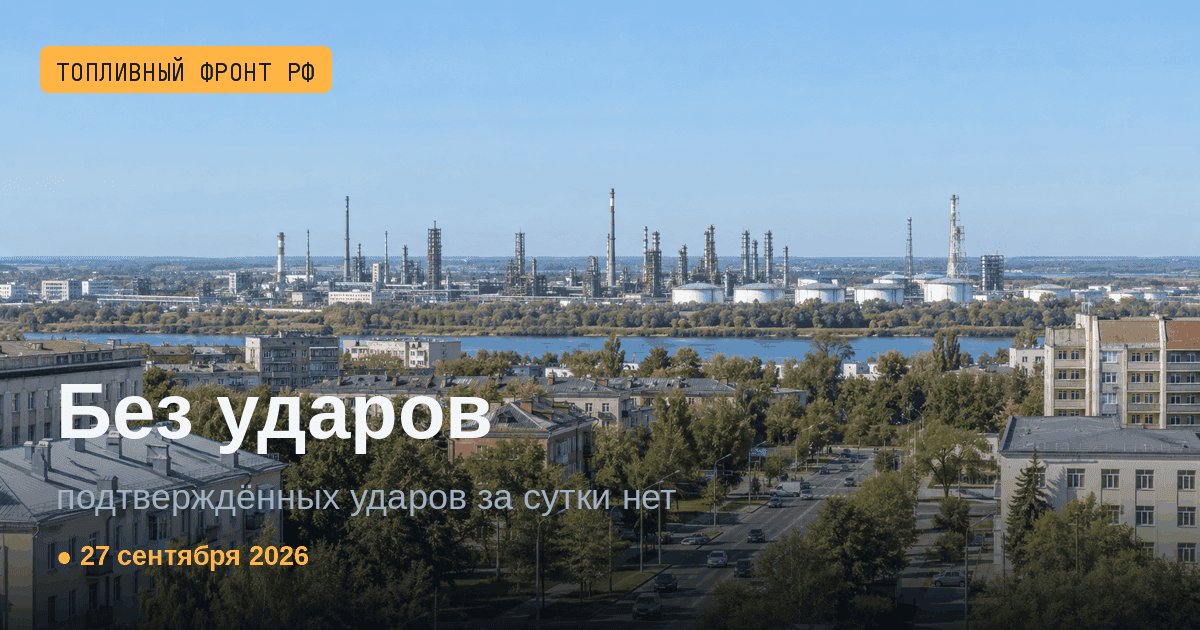
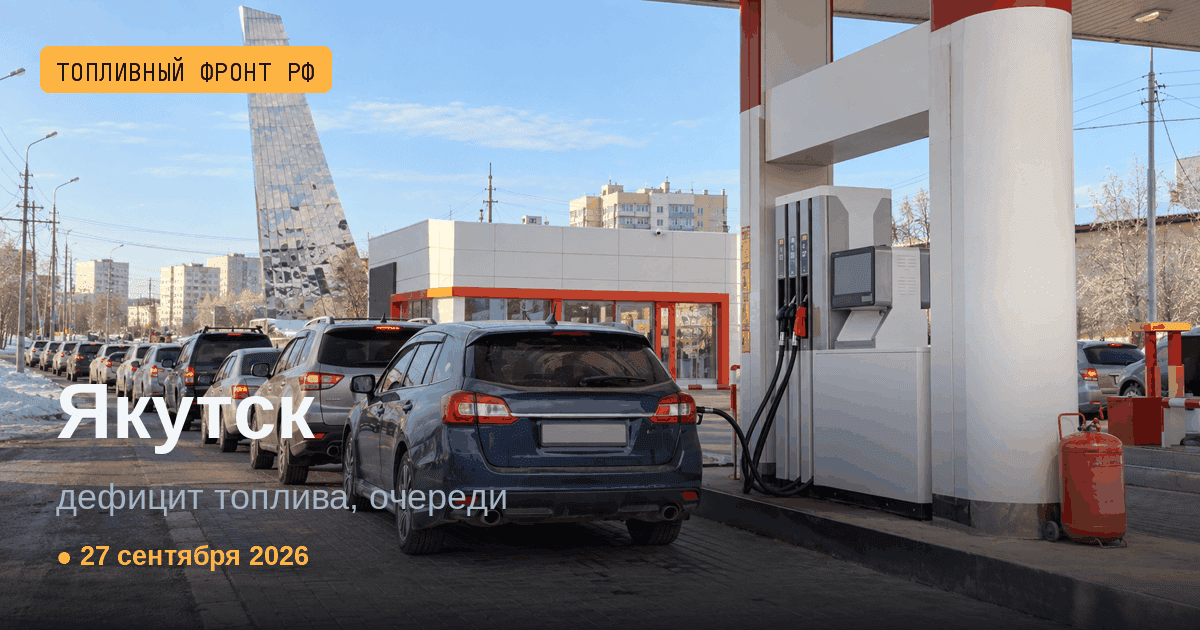
cover(2026-09-27): пересбор обложки — ударов нет, лид голосов Якутск/очереди

diff --git a/news/2026-09-27.html b/news/2026-09-27.html
@@ -17,7 +17,7 @@
   <meta property="og:url" content="https://npz-tactical-map.vercel.app/news/2026-09-27">
   <meta property="og:title" content="Сводка за 27 сентября 2026: Сводка дня: без подтверждённых ударов | Топливный фронт РФ">
   <meta property="og:description" content="Топливный фронт РФ за 27 сентября 2026: «Топливо для «СибОйла» уже находится в Нижнем Бестяхе, его доставляют в Якутск речным транспортом; ожидается, что три АЗС компании…» Удары по НПЗ, дефицит бензина, лимиты на АЗС.">
-  <meta property="og:image" content="https://npz-tactical-map.vercel.app/assets/cover-2026-09-27.png?v=5fc86e6e">
+  <meta property="og:image" content="https://npz-tactical-map.vercel.app/assets/cover-2026-09-27.png?v=6da01382">
   <meta property="og:image:alt" content="Сводка ударов по НПЗ и дефицита бензина — Топливный фронт РФ">
   <meta property="og:image:width" content="1200">
   <meta property="og:image:height" content="630">
@@ -25,12 +25,12 @@
   <meta name="twitter:card" content="summary_large_image">
   <meta name="twitter:title" content="Сводка за 27 сентября 2026: Сводка дня: без подтверждённых ударов | Топливный фронт РФ">
   <meta name="twitter:description" content="Топливный фронт РФ за 27 сентября 2026: «Топливо для «СибОйла» уже находится в Нижнем Бестяхе, его доставляют в Якутск речным транспортом; ожидается, что три АЗС компании…» Удары по НПЗ, дефицит бензина, лимиты на АЗС.">
-  <meta name="twitter:image" content="https://npz-tactical-map.vercel.app/assets/cover-2026-09-27.png?v=5fc86e6e">
+  <meta name="twitter:image" content="https://npz-tactical-map.vercel.app/assets/cover-2026-09-27.png?v=6da01382">
   <meta name="twitter:image:alt" content="NPZ Tactical Map — Russia Fuel Crisis Daily Brief">
 
   <link rel="alternate" type="application/rss+xml" title="Топливный фронт РФ — сводки (RSS)" href="https://npz-tactical-map.vercel.app/rss.xml">
 
-  <script type="application/ld+json">{"@context": "https://schema.org", "@type": "NewsArticle", "headline": "Сводка за 27 сентября 2026: Сводка дня: без подтверждённых ударов", "datePublished": "2026-09-27", "dateModified": "2026-09-27", "image": ["https://npz-tactical-map.vercel.app/assets/cover-2026-09-27.png?v=5fc86e6e"], "author": {"@type": "Organization", "name": "Топливный фронт РФ"}, "publisher": {"@type": "Organization", "name": "Топливный фронт РФ", "url": "https://npz-tactical-map.vercel.app/"}, "description": "Топливный фронт РФ за 27 сентября 2026: «Топливо для «СибОйла» уже находится в Нижнем Бестяхе, его доставляют в Якутск речным транспортом; ожидается, что три АЗС компании…» Удары по НПЗ, дефицит бензина, лимиты на АЗС.", "mainEntityOfPage": "https://npz-tactical-map.vercel.app/news/2026-09-27", "isAccessibleForFree": true}</script>
+  <script type="application/ld+json">{"@context": "https://schema.org", "@type": "NewsArticle", "headline": "Сводка за 27 сентября 2026: Сводка дня: без подтверждённых ударов", "datePublished": "2026-09-27", "dateModified": "2026-09-27", "image": ["https://npz-tactical-map.vercel.app/assets/cover-2026-09-27.png?v=6da01382"], "author": {"@type": "Organization", "name": "Топливный фронт РФ"}, "publisher": {"@type": "Organization", "name": "Топливный фронт РФ", "url": "https://npz-tactical-map.vercel.app/"}, "description": "Топливный фронт РФ за 27 сентября 2026: «Топливо для «СибОйла» уже находится в Нижнем Бестяхе, его доставляют в Якутск речным транспортом; ожидается, что три АЗС компании…» Удары по НПЗ, дефицит бензина, лимиты на АЗС.", "mainEntityOfPage": "https://npz-tactical-map.vercel.app/news/2026-09-27", "isAccessibleForFree": true}</script>
   <script type="application/ld+json">{"@context": "https://schema.org", "@type": "BreadcrumbList", "itemListElement": [{"@type": "ListItem", "position": 1, "name": "Топливный фронт РФ", "item": "https://npz-tactical-map.vercel.app/"}, {"@type": "ListItem", "position": 2, "name": "Сводки", "item": "https://npz-tactical-map.vercel.app/news"}, {"@type": "ListItem", "position": 3, "name": "Сентябрь 2026", "item": "https://npz-tactical-map.vercel.app/news/2026-09"}, {"@type": "ListItem", "position": 4, "name": "27 сентября 2026", "item": "https://npz-tactical-map.vercel.app/news/2026-09-27"}]}</script>
 
   <script>window.va = window.va || function () { (window.vaq = window.vaq || []).push(arguments); };</script>
@@ -197,7 +197,7 @@
     <div class="news-container">
       <nav class="brief-crumb"><a href="/news">📰 Все сводки</a> <span>/</span> <a href="/news/2026-09">Сентябрь 2026</a> <span>/</span> 27 сентября 2026</nav>
       <section class="news-hero">
-        <img class="news-hero-image" src="/assets/cover-2026-09-27.webp?v=1dbf2a46" alt="Сводка за 27 сентября 2026" width="1200" height="630" loading="eager">
+        <img class="news-hero-image" src="/assets/cover-2026-09-27.webp?v=380952c4" alt="Сводка за 27 сентября 2026" width="1200" height="630" loading="eager">
         <span class="hero-kicker">воскресенье, 27.09.2026</span>
         <h1>Топливный фронт РФ — сводка за 27 сентября 2026</h1>
         <p class="section-sub">0 зафиксированных ударов. OSINT-агрегация по открытым источникам.</p>

diff --git a/news/2026-09.html b/news/2026-09.html
@@ -17,7 +17,7 @@
   <meta property="og:url" content="https://npz-tactical-map.vercel.app/news/2026-09">
   <meta property="og:title" content="Удары по НПЗ и топливная обстановка — сентябрь 2026 | Топливный фронт РФ">
   <meta property="og:description" content="Архив сводок за сентябрь 2026: 167 ударов по РФ, из них 37 по НПЗ/энергетике, за 27 дней в архиве. Хроника по дням с картой и источниками.">
-  <meta property="og:image" content="https://npz-tactical-map.vercel.app/assets/cover-2026-09-27.png?v=5fc86e6e">
+  <meta property="og:image" content="https://npz-tactical-map.vercel.app/assets/cover-2026-09-27.png?v=6da01382">
   <meta property="og:image:alt" content="Сводка ударов по НПЗ и дефицита бензина — Топливный фронт РФ">
   <meta property="og:image:width" content="1200">
   <meta property="og:image:height" content="630">
@@ -25,7 +25,7 @@
   <meta name="twitter:card" content="summary_large_image">
   <meta name="twitter:title" content="Удары по НПЗ и топливная обстановка — сентябрь 2026 | Топливный фронт РФ">
   <meta name="twitter:description" content="Архив сводок за сентябрь 2026: 167 ударов по РФ, из них 37 по НПЗ/энергетике, за 27 дней в архиве. Хроника по дням с картой и источниками.">
-  <meta name="twitter:image" content="https://npz-tactical-map.vercel.app/assets/cover-2026-09-27.png?v=5fc86e6e">
+  <meta name="twitter:image" content="https://npz-tactical-map.vercel.app/assets/cover-2026-09-27.png?v=6da01382">
   <meta name="twitter:image:alt" content="NPZ Tactical Map — Russia Fuel Crisis Daily Brief">
 
   <link rel="alternate" type="application/rss+xml" title="Топливный фронт РФ — сводки (RSS)" href="https://npz-tactical-map.vercel.app/rss.xml">
@@ -197,7 +197,7 @@
     <div class="news-container">
       <nav class="brief-crumb"><a href="/news">📰 Все сводки</a> <span>/</span> Сентябрь 2026</nav>
       <section class="news-hero">
-        <img class="news-hero-image" src="/assets/cover-2026-09-27.webp?v=1dbf2a46" alt="Архив сводок за сентябрь 2026" width="1200" height="630" loading="eager">
+        <img class="news-hero-image" src="/assets/cover-2026-09-27.webp?v=380952c4" alt="Архив сводок за сентябрь 2026" width="1200" height="630" loading="eager">
         <span class="hero-kicker">Архив по месяцам</span>
         <h1>Удары по НПЗ и топливная обстановка — сентябрь 2026</h1>
         <p class="section-sub">Хроника ударов и дефицита топлива за сентябрь 2026: 167 ударов за 27 дней, основные цели — Ростов-на-Дону (7), Севастополь (7), Сочи (7), Таганрог (7), Геленджик (5).</p>
@@ -215,7 +215,7 @@
         <h2>🗓 Сводки по дням — сентябрь 2026</h2>
         <div class="brief-grid">
         <a class="brief-card" href="/news/2026-09-27">
-          <div class="brief-card-cover" style="background-image:url('/assets/thumb/cover-2026-09-27.webp?v=361faf43')">
+          <div class="brief-card-cover" style="background-image:url('/assets/thumb/cover-2026-09-27.webp?v=d61377cb')">
             <span class="brief-card-date">27 сентября</span>
           </div>
           <div class="brief-card-body">

diff --git a/news.html b/news.html
@@ -17,7 +17,7 @@
   <meta property="og:url" content="https://npz-tactical-map.vercel.app/news">
   <meta property="og:title" content="Топливный фронт РФ — сводки по дням | удары по НПЗ и дефицит бензина">
   <meta property="og:description" content="Ежедневные OSINT-сводки: удары БПЛА по нефтезаводам России, дефицит бензина, лимиты на АЗС, очереди, цены АИ-95, биржа СПбМТСБ. Архив за каждый день. Последнее обновление — 27 сентября 2026.">
-  <meta property="og:image" content="https://npz-tactical-map.vercel.app/assets/cover-2026-09-27.png?v=5fc86e6e">
+  <meta property="og:image" content="https://npz-tactical-map.vercel.app/assets/cover-2026-09-27.png?v=6da01382">
   <meta property="og:image:alt" content="Сводка ударов по НПЗ и дефицита бензина — Топливный фронт РФ">
   <meta property="og:image:width" content="1200">
   <meta property="og:image:height" content="630">
@@ -25,7 +25,7 @@
   <meta name="twitter:card" content="summary_large_image">
   <meta name="twitter:title" content="Топливный фронт РФ — сводки по дням | удары по НПЗ и дефицит бензина">
   <meta name="twitter:description" content="Ежедневные OSINT-сводки: удары БПЛА по нефтезаводам России, дефицит бензина, лимиты на АЗС, очереди, цены АИ-95, биржа СПбМТСБ. Архив за каждый день. Последнее обновление — 27 сентября 2026.">
-  <meta name="twitter:image" content="https://npz-tactical-map.vercel.app/assets/cover-2026-09-27.png?v=5fc86e6e">
+  <meta name="twitter:image" content="https://npz-tactical-map.vercel.app/assets/cover-2026-09-27.png?v=6da01382">
   <meta name="twitter:image:alt" content="NPZ Tactical Map — Russia Fuel Crisis Daily Brief">
 
   <link rel="alternate" type="application/rss+xml" title="Топливный фронт РФ — сводки (RSS)" href="https://npz-tactical-map.vercel.app/rss.xml">
@@ -197,7 +197,7 @@
 
       <section class="news-hero-lead">
         <a class="hero-cover-link" href="/news/2026-09-27">
-          <img class="news-hero-image" src="/assets/cover-2026-09-27.webp?v=1dbf2a46" alt="Сводка за 27 сентября 2026" width="1200" height="630" loading="eager">
+          <img class="news-hero-image" src="/assets/cover-2026-09-27.webp?v=380952c4" alt="Сводка за 27 сентября 2026" width="1200" height="630" loading="eager">
         </a>
         <div class="hero-lead-body">
           <span class="hero-kicker">🔴 Свежая сводка · воскресенье, 27.09.2026</span>
@@ -244,7 +244,7 @@
         <p class="section-sub">Хроника топливного кризиса — каждый день с 7 июня 2026. Нажми на карточку, чтобы открыть сводку за дату.</p>
         <div class="brief-grid">
         <a class="brief-card is-latest" href="/news/2026-09-27">
-          <div class="brief-card-cover" style="background-image:url('/assets/thumb/cover-2026-09-27.webp?v=361faf43')">
+          <div class="brief-card-cover" style="background-image:url('/assets/thumb/cover-2026-09-27.webp?v=d61377cb')">
             <span class="brief-card-date">27 сентября</span>
           </div>
           <div class="brief-card-body">
